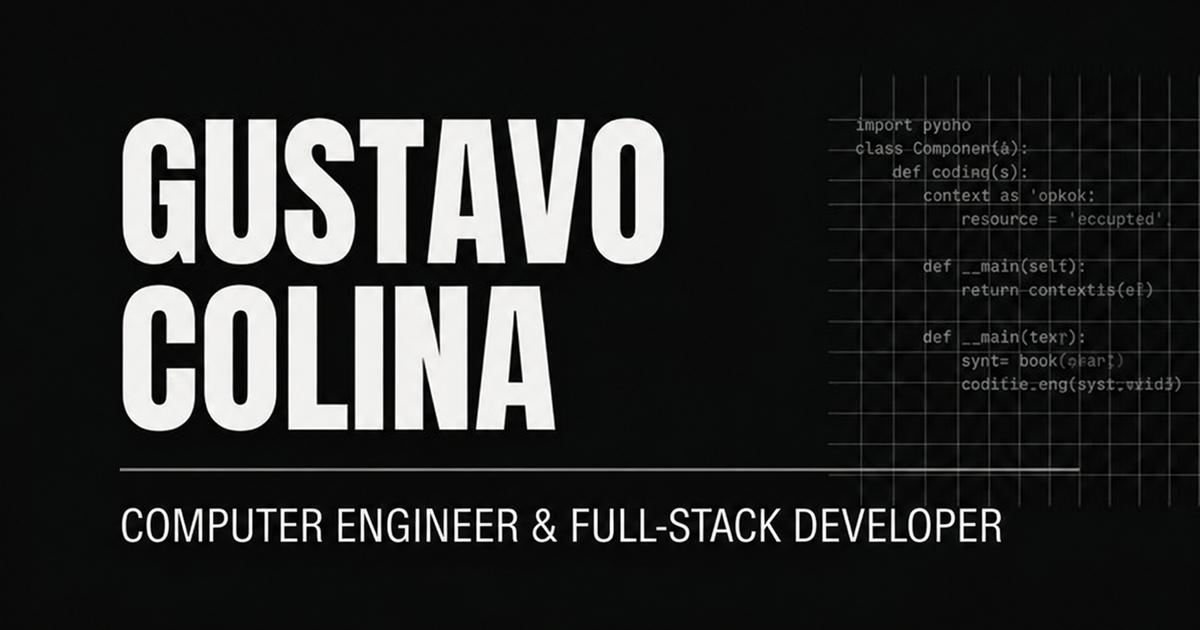
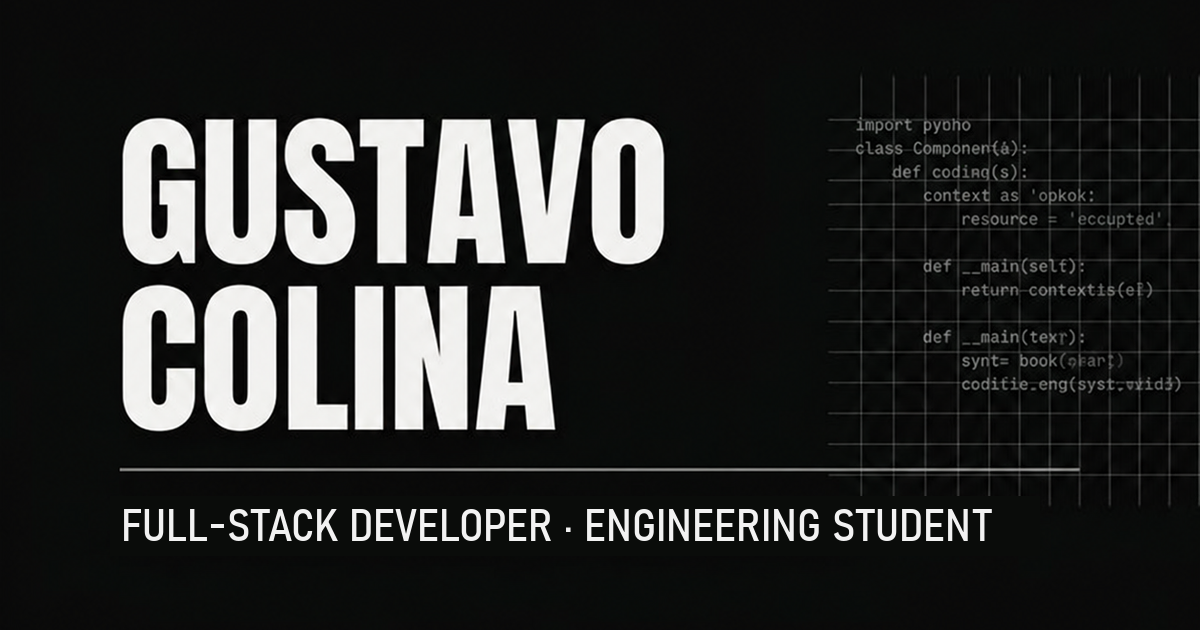
fix: update OG subtitle and mobile menu accessibility
- Replace "Computer Engineer" in the OG image with "Full-Stack Developer · Engineering Student"
- Close the mobile menu with Escape and expose it as a labelled modal dialog
- Add aria-expanded/aria-controls to the menu toggle
- Keep Escape in the language menu from also closing the mobile menu
- Raise contrast of availability labels and service notes in both themes
- Give project filter buttons an explicit type

Changed region(s): [[0.0925, 0.7841, 0.8325, 0.8746]]

diff --git a/src/components/AvailabilitySection.tsx b/src/components/AvailabilitySection.tsx
@@ -39,21 +39,21 @@ export default function AvailabilitySection() {
           <div className="flex items-center gap-3 border border-zinc-900/30 dark:border-zinc-100/30 px-4 py-3">
             <MapPin size={16} className="text-zinc-500 shrink-0" />
             <div>
-              <p className="text-[10px] font-bold uppercase tracking-[0.14em] text-zinc-400 dark:text-zinc-500">{t('modalityLabel')}</p>
+              <p className="text-[10px] font-bold uppercase tracking-[0.14em] text-zinc-600 dark:text-zinc-400">{t('modalityLabel')}</p>
               <p className="text-sm font-bold text-zinc-900 dark:text-zinc-100">{t('modality')}</p>
             </div>
           </div>
           <div className="flex items-center gap-3 border border-zinc-900/30 dark:border-zinc-100/30 px-4 py-3">
             <Briefcase size={16} className="text-zinc-500 shrink-0" />
             <div>
-              <p className="text-[10px] font-bold uppercase tracking-[0.14em] text-zinc-400 dark:text-zinc-500">{t('contractLabel')}</p>
+              <p className="text-[10px] font-bold uppercase tracking-[0.14em] text-zinc-600 dark:text-zinc-400">{t('contractLabel')}</p>
               <p className="text-sm font-bold text-zinc-900 dark:text-zinc-100">{t('contract')}</p>
             </div>
           </div>
           <div className="flex items-center gap-3 border border-zinc-900/30 dark:border-zinc-100/30 px-4 py-3">
             <Clock size={16} className="text-zinc-500 shrink-0" />
             <div>
-              <p className="text-[10px] font-bold uppercase tracking-[0.14em] text-zinc-400 dark:text-zinc-500">{t('timezoneLabel')}</p>
+              <p className="text-[10px] font-bold uppercase tracking-[0.14em] text-zinc-600 dark:text-zinc-400">{t('timezoneLabel')}</p>
               <p className="text-sm font-bold text-zinc-900 dark:text-zinc-100">{t('timezone')}</p>
             </div>
           </div>

diff --git a/src/components/Navbar.tsx b/src/components/Navbar.tsx
@@ -76,6 +76,8 @@ export default function Navbar() {
             className="md:hidden inline-flex h-9 w-9 items-center justify-center border-2 border-zinc-900 bg-white text-zinc-900 dark:border-zinc-100 dark:bg-zinc-950 dark:text-zinc-100"
             onClick={() => setIsOpen((prev) => !prev)}
             aria-label={isOpen ? t('closeMenu') : t('openMenu')}
+            aria-expanded={isOpen}
+            aria-controls="mobile-menu"
           >
             {isOpen ? <X size={18} /> : <Menu size={18} />}
           </button>
@@ -92,7 +94,14 @@ export default function Navbar() {
             aria-hidden="true"
           />
           {/* Drawer */}
-          <div ref={drawerRef} className="fixed top-0 right-0 z-50 h-full w-4/5 max-w-xs border-l-2 border-zinc-900 bg-white dark:border-zinc-100 dark:bg-[#0a0a0a] flex flex-col pt-24 pb-8 px-6 gap-2 overflow-y-auto">
+          <div
+            ref={drawerRef}
+            id="mobile-menu"
+            role="dialog"
+            aria-modal="true"
+            aria-label={t('mainNav')}
+            onKeyDown={(event) => { if (event.key === 'Escape') close(); }}
+            className="fixed top-0 right-0 z-50 h-full w-4/5 max-w-xs border-l-2 border-zinc-900 bg-white dark:border-zinc-100 dark:bg-[#0a0a0a] flex flex-col pt-24 pb-8 px-6 gap-2 overflow-y-auto">
             <button
               type="button"
               className="absolute top-5 right-5 inline-flex h-9 w-9 items-center justify-center border-2 border-zinc-900 dark:border-zinc-100"

diff --git a/src/components/ServicesSection.tsx b/src/components/ServicesSection.tsx
@@ -109,7 +109,7 @@ export default function ServicesSection() {
                 </span>
               ))}
               {service.technologies.length > 3 && (
-                <span className="inline-flex px-2 py-0.5 text-[10px] text-zinc-500 dark:text-zinc-500">
+                <span className="inline-flex px-2 py-0.5 text-[10px] text-zinc-600 dark:text-zinc-400">
                   +{service.technologies.length - 3}
                 </span>
               )}

diff --git a/src/components/LanguageSwitcher.tsx b/src/components/LanguageSwitcher.tsx
@@ -47,7 +47,7 @@ export default function LanguageSwitcher() {
       className="relative"
       ref={dropdownRef}
       onKeyDown={(event) => {
-        if (event.key === 'Escape' && isOpen) { setIsOpen(false); triggerRef.current?.focus(); }
+        if (event.key === 'Escape' && isOpen) { event.stopPropagation(); setIsOpen(false); triggerRef.current?.focus(); }
       }}
     >
       <button

diff --git a/src/components/ProjectsSection.tsx b/src/components/ProjectsSection.tsx
@@ -38,6 +38,7 @@ export default function ProjectsSection() {
         {filters.map((filter) => (
           <button
             key={filter}
+            type="button"
             onClick={() => setActiveFilter(filter)}
             aria-pressed={activeFilter === filter}
             className={`min-h-11 px-3 py-2 text-sm font-bold uppercase tracking-wide border-2 transition-colors sm:px-4 ${
